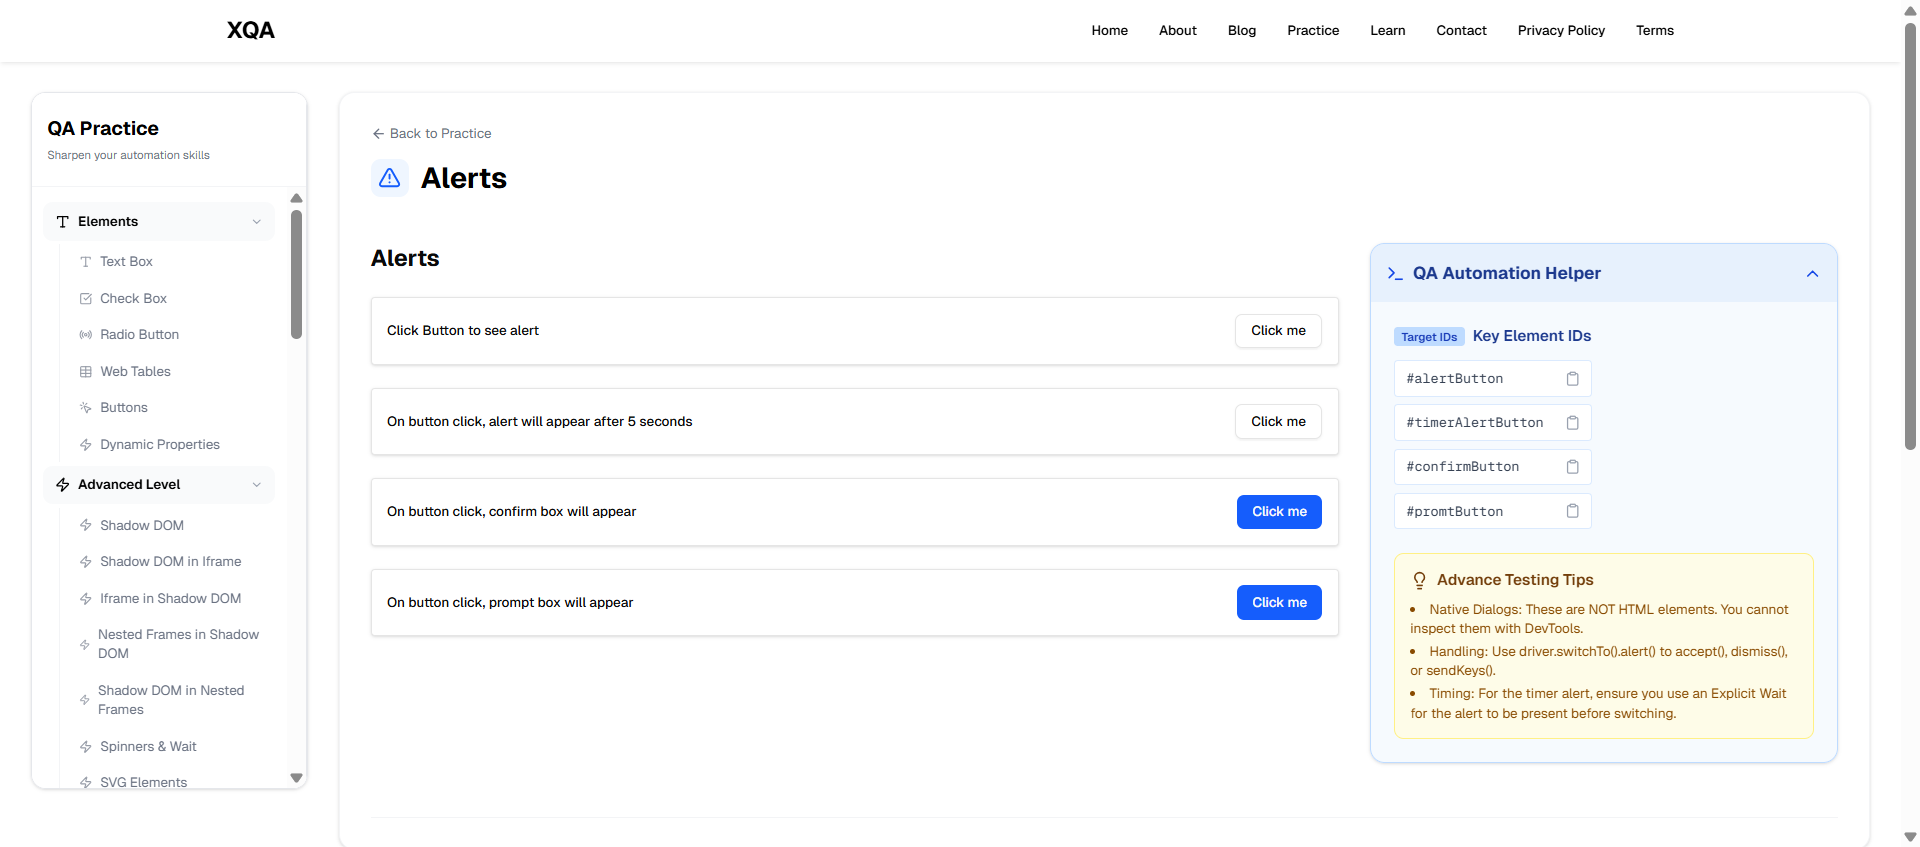
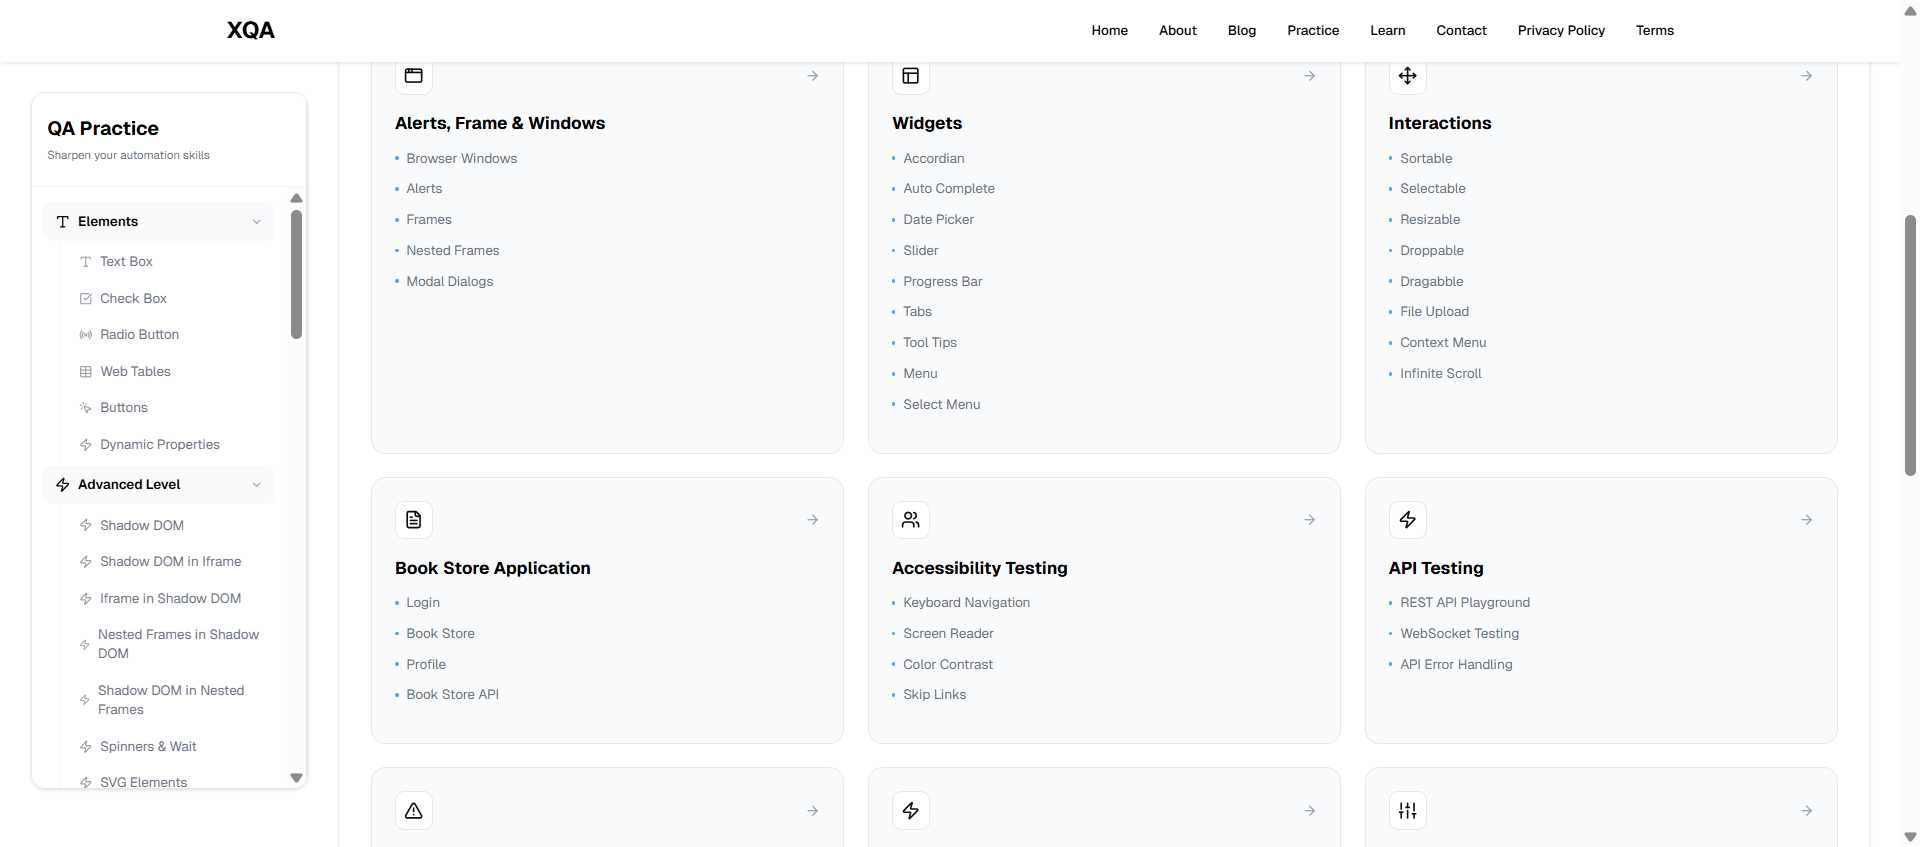
add

diff --git a/test-output/index.html b/test-output/index.html
@@ -103,7 +103,7 @@
                     <div class="method-list-content passed suite-Suite">
                       <span>
                         <img src="passed.png" width="3%"/>
-                        <a href="#" panel-name="suite-Suite" title="com.seleniumProject.PracticeSeleniumDemo.Widgettest" class="method navigator-link" hash-for-method="handleaccordian">handleaccordian</a> <!-- method navigator-link -->
+                        <a href="#" panel-name="suite-Suite" title="com.seleniumProject.PracticeSeleniumDemo.Widgettest" class="method navigator-link" hash-for-method="handleautocomplete">handleautocomplete</a> <!-- method navigator-link -->
                       </span>
                       <br/>
                     </div> <!-- method-list-content passed suite-Suite -->
@@ -126,9 +126,9 @@
             <div class="main-panel-content rounded-window-bottom">
               <div class="method">
                 <div class="method-content">
-                  <a name="handleaccordian">
-                  </a> <!-- handleaccordian -->
-                  <span class="method-name">handleaccordian</span>
+                  <a name="handleautocomplete">
+                  </a> <!-- handleautocomplete -->
+                  <span class="method-name">handleautocomplete</span>
                 </div> <!-- method-content -->
               </div> <!-- method -->
             </div> <!-- main-panel-content rounded-window-bottom -->
@@ -149,7 +149,11 @@
   &lt;/listeners&gt;
   &lt;test thread-count=&quot;5&quot; name=&quot;ChromeBrowserTest&quot;&gt;
     &lt;classes&gt;
-      &lt;class name=&quot;com.seleniumProject.PracticeSeleniumDemo.Widgettest&quot;/&gt;
+      &lt;class name=&quot;com.seleniumProject.PracticeSeleniumDemo.Widgettest&quot;&gt;
+        &lt;methods&gt;
+          &lt;include name=&quot;handleautocomplete&quot;/&gt;
+        &lt;/methods&gt;
+      &lt;/class&gt; &lt;!-- com.seleniumProject.PracticeSeleniumDemo.Widgettest --&gt;
     &lt;/classes&gt;
   &lt;/test&gt; &lt;!-- ChromeBrowserTest --&gt;
 &lt;/suite&gt; &lt;!-- Suite --&gt;
@@ -191,14 +195,14 @@ data.addColumn('string', 'Class');
 data.addColumn('number', 'Time (ms)');
 data.addRows(1);
 data.setCell(0, 0, 0)
-data.setCell(0, 1, 'handleaccordian')
+data.setCell(0, 1, 'handleautocomplete')
 data.setCell(0, 2, 'com.seleniumProject.PracticeSeleniumDemo.Widgettest')
-data.setCell(0, 3, 1011);
+data.setCell(0, 3, 2048);
 window.suiteTableData['Suite']= { tableData: data, tableDiv: 'times-div-Suite'}
 return data;
 }
               </script>
-              <span class="suite-total-time">Total running time: 1 seconds</span>
+              <span class="suite-total-time">Total running time: 2 seconds</span>
               <div id="times-div-Suite">
               </div> <!-- times-div-Suite -->
             </div> <!-- times-div -->
@@ -213,9 +217,16 @@ return data;
         </div> <!-- panel -->
         <div panel-name="ignored-methods-Suite" class="panel">
           <div class="main-panel-header rounded-window-top">
-            <span class="header-content">0 ignored methods</span>
+            <span class="header-content">1 ignored method</span>
           </div> <!-- main-panel-header rounded-window-top -->
           <div class="main-panel-content rounded-window-bottom">
+            <div class="ignored-class-div">
+              <span class="ignored-class-name">com.seleniumProject.PracticeSeleniumDemo.Widgettest</span>
+              <div class="ignored-methods-div">
+                <span class="ignored-method-name">handleaccordian</span>
+                <br/>
+              </div> <!-- ignored-methods-div -->
+            </div> <!-- ignored-class-div -->
           </div> <!-- main-panel-content rounded-window-bottom -->
         </div> <!-- panel -->
         <div panel-name="chronological-Suite" class="panel">
@@ -230,12 +241,12 @@ return data;
                 <span class="method-start">0 ms</span>
               </div> <!-- configuration-method before -->
               <div class="test-method">
-                <span class="method-name">handleaccordian</span>
-                <span class="method-start">3296 ms</span>
+                <span class="method-name">handleautocomplete</span>
+                <span class="method-start">3495 ms</span>
               </div> <!-- test-method -->
               <div class="configuration-method after">
                 <span class="method-name">teardown</span>
-                <span class="method-start">4314 ms</span>
+                <span class="method-start">5551 ms</span>
               </div> <!-- configuration-method after -->
           </div> <!-- main-panel-content rounded-window-bottom -->
         </div> <!-- panel -->

diff --git a/test-output/emailable-report.html b/test-output/emailable-report.html
@@ -9,10 +9,10 @@
 <table>
 <tr><th>Test</th><th># Passed</th><th># Skipped</th><th># Retried</th><th># Failed</th><th>Time (ms)</th><th>Included Groups</th><th>Excluded Groups</th></tr>
 <tr><th colspan="8">Suite</th></tr>
-<tr><td><a href="#t0">ChromeBrowserTest</a></td><td class="num">1</td><td class="num">0</td><td class="num">0</td><td class="num">0</td><td class="num">4,714</td><td></td><td></td></tr>
+<tr><td><a href="#t0">ChromeBrowserTest</a></td><td class="num">1</td><td class="num">0</td><td class="num">0</td><td class="num">0</td><td class="num">5,948</td><td></td><td></td></tr>
 </table>
-<table id='summary'><thead><tr><th>Class</th><th>Method</th><th>Start</th><th>Time (ms)</th></tr></thead><tbody><tr><th colspan="4">Suite</th></tr></tbody><tbody id="t0"><tr><th colspan="4">ChromeBrowserTest &#8212; passed</th></tr><tr class="passedeven"><td rowspan="1">com.seleniumProject.PracticeSeleniumDemo.Widgettest</td><td><a href="#m0">handleaccordian</a></td><td rowspan="1">1776262209256</td><td rowspan="1">1011</td></tr></tbody>
+<table id='summary'><thead><tr><th>Class</th><th>Method</th><th>Start</th><th>Time (ms)</th></tr></thead><tbody><tr><th colspan="4">Suite</th></tr></tbody><tbody id="t0"><tr><th colspan="4">ChromeBrowserTest &#8212; passed</th></tr><tr class="passedeven"><td rowspan="1">com.seleniumProject.PracticeSeleniumDemo.Widgettest</td><td><a href="#m0">handleautocomplete</a></td><td rowspan="1">1776754751156</td><td rowspan="1">2048</td></tr></tbody>
 </table>
-<h2>ChromeBrowserTest</h2><h3 id="m0">com.seleniumProject.PracticeSeleniumDemo.Widgettest#handleaccordian</h3><table class="result"><tr><th class="invisible"/></tr></table><p class="totop"><a href="#summary">back to summary</a></p>
+<h2>ChromeBrowserTest</h2><h3 id="m0">com.seleniumProject.PracticeSeleniumDemo.Widgettest#handleautocomplete</h3><table class="result"><tr><th class="invisible"/></tr></table><p class="totop"><a href="#summary">back to summary</a></p>
 </body>
 </html>

diff --git a/test-output/Suite/ChromeBrowserTest.html b/test-output/Suite/ChromeBrowserTest.html
@@ -57,9 +57,9 @@ function toggleAllBoxes() {
 <tr>
 <td>Tests passed/Failed/Skipped:</td><td>1/0/0</td>
 </tr><tr>
-<td>Started on:</td><td>Wed Apr 15 19:40:05 IST 2026</td>
+<td>Started on:</td><td>Tue Apr 21 12:29:07 IST 2026</td>
 </tr>
-<tr><td>Total time:</td><td>4 seconds (4714 ms)</td>
+<tr><td>Total time:</td><td>5 seconds (5948 ms)</td>
 </tr><tr>
 <td>Included groups:</td><td></td>
 </tr><tr>
@@ -76,10 +76,10 @@ function toggleAllBoxes() {
 <td><b>Instance</b></td>
 </tr>
 <tr>
-<td title='com.seleniumProject.PracticeSeleniumDemo.Widgettest.handleaccordian()'><b>handleaccordian</b><br>Test class: com.seleniumProject.PracticeSeleniumDemo.Widgettest</td>
+<td title='com.seleniumProject.PracticeSeleniumDemo.Widgettest.handleautocomplete()'><b>handleautocomplete</b><br>Test class: com.seleniumProject.PracticeSeleniumDemo.Widgettest</td>
 <td></td>
-<td>1</td>
-<td>com.seleniumProject.PracticeSeleniumDemo.Widgettest@6f6745d6</td></tr>
+<td>2</td>
+<td>com.seleniumProject.PracticeSeleniumDemo.Widgettest@3ddc6915</td></tr>
 </table><p>
 </body>
 </html>

diff --git a/src/main/java/com/seleniumProject/PracticeSeleniumDemo/Widget.java b/src/main/java/com/seleniumProject/PracticeSeleniumDemo/Widget.java
@@ -27,6 +27,14 @@ public class Widget {
 	@FindBy(id="section3-heading")
 	WebElement thirdaccordian;
 	
+	@FindBy(xpath="//a[contains(text(),'Auto Complete')]")
+	WebElement auto_completelink;
+	
+	@FindBy(id="autoCompleteMultipleInput")
+	WebElement autocomplete_input;
+	
+	@FindBy(className="w-full")
+	List<WebElement> listautocomplete;
 	
 	public void clickaccordian() {
 		accordian.click();
@@ -60,8 +68,28 @@ public class Widget {
 		return thirdaccordian;
 	}
 	
+	public void AutoCompleteClick()
+	{
+		WebDriverWait w=new WebDriverWait(driver,Duration.ofSeconds(20));
+		w.until(ExpectedConditions.elementToBeClickable(auto_completelink)).click();
+		
+	}
 	
-	
+	public void entertextautocomplete()
+	{
+		WebDriverWait w=new WebDriverWait(driver,Duration.ofSeconds(20));
+		w.until(ExpectedConditions.elementToBeClickable(autocomplete_input)).click();
+		autocomplete_input.sendKeys("r");
+		for(WebElement list:listautocomplete)
+		{
+			if(list.equals("Red"))
+			{
+				list.click();
+			}
+			System.out.println(list.getText());
+		}
+		
+	}
 	public Widget(WebDriver driver)
 	{
 		this.driver=driver;

diff --git a/src/test/java/com/seleniumProject/PracticeSeleniumDemo/Widgettest.java b/src/test/java/com/seleniumProject/PracticeSeleniumDemo/Widgettest.java
@@ -19,5 +19,12 @@ public class Widgettest extends BaseClass{
 	     Assert.assertEquals(thirdstring, thirdstring1,"thirdAssertion not working");
 	}
 	
+	@Test
+	public void handleautocomplete()
+	{
+		widget=new Widget(driver);
+		widget.AutoCompleteClick();
+		widget.entertextautocomplete();
+	}
 
 }
